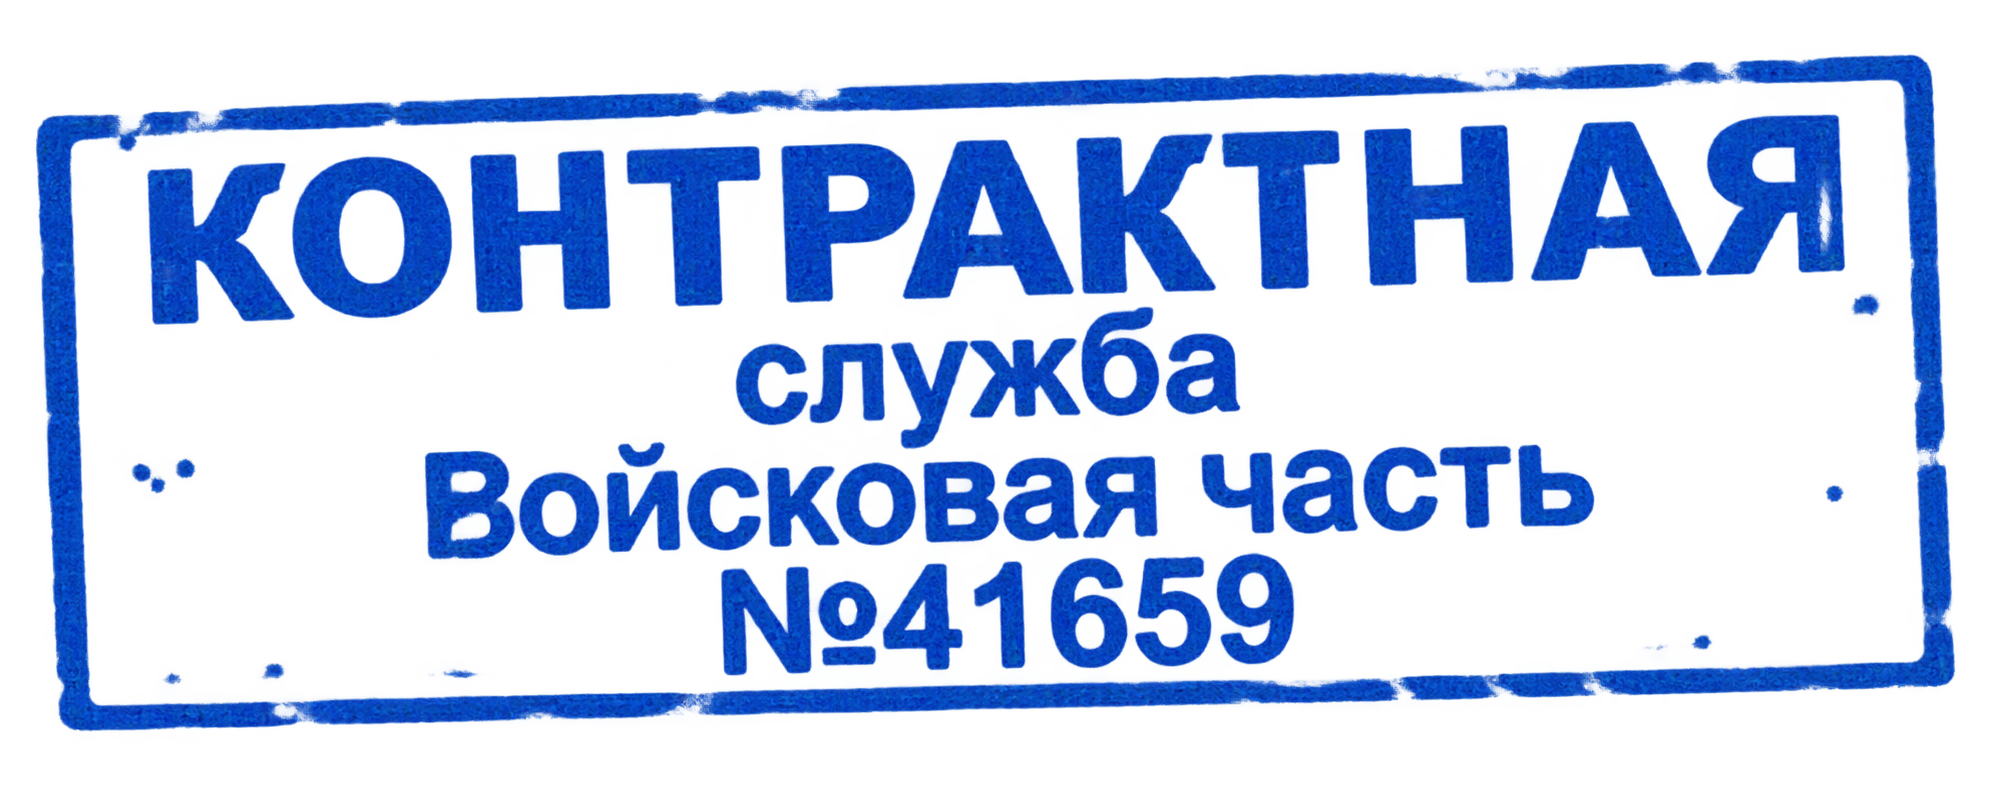
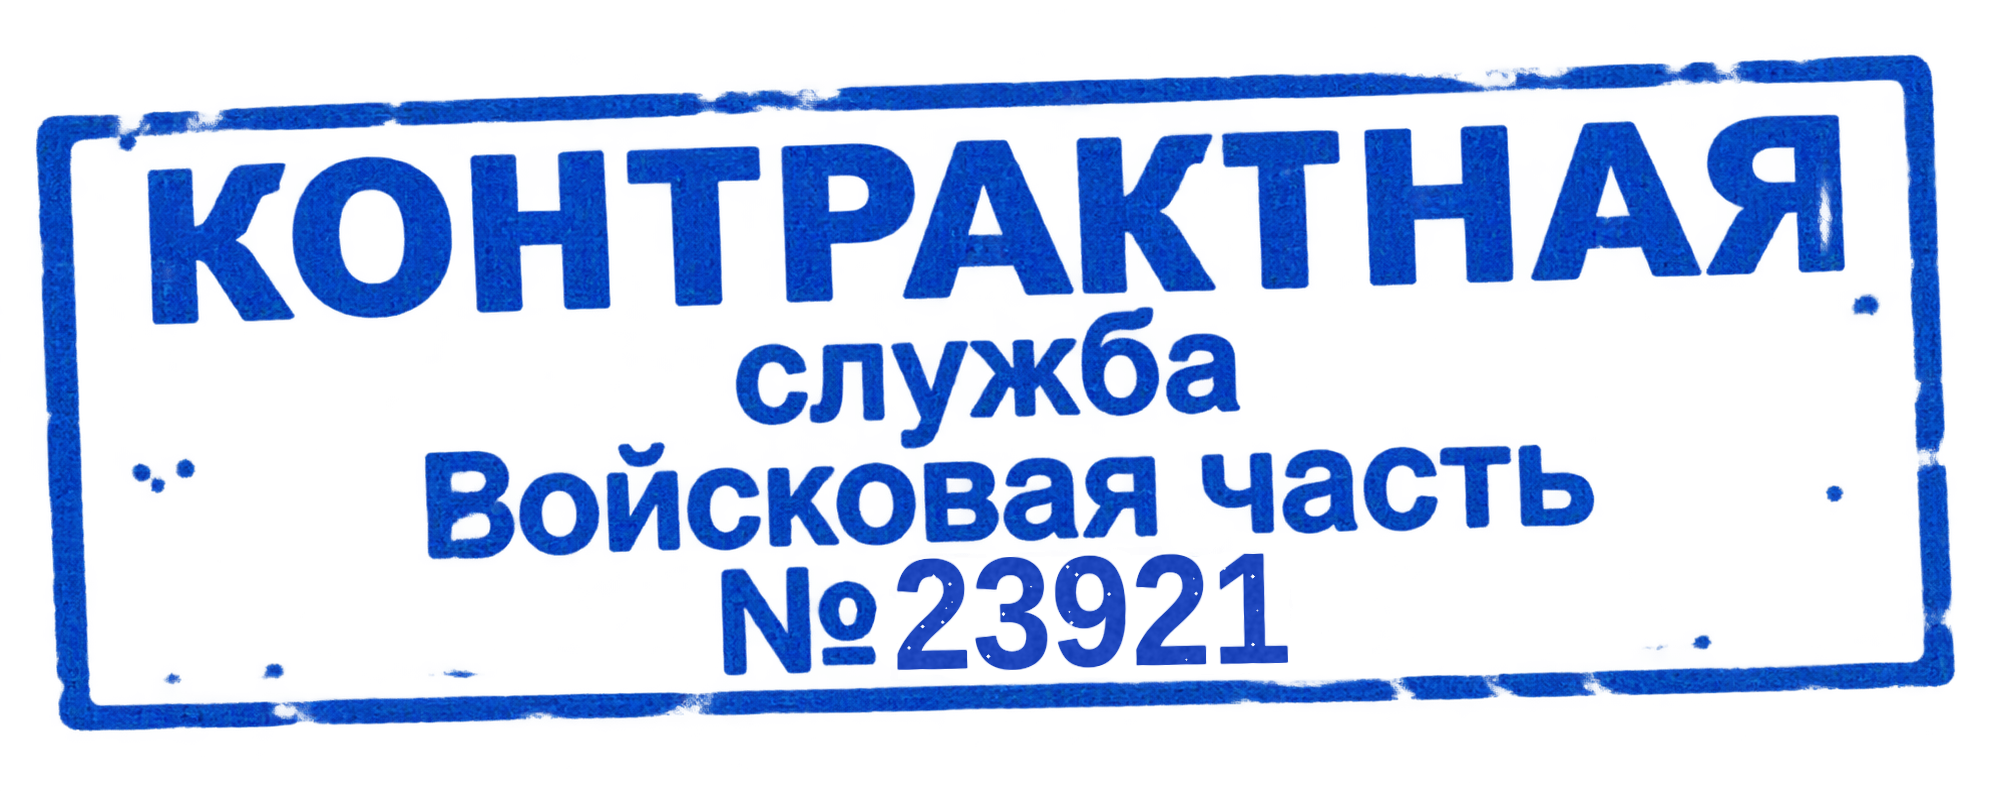
Add files via upload

Changed region(s): [[0.4364, 0.6979, 0.6546, 0.8496]]

diff --git a/js/create.js b/js/create.js
@@ -6,27 +6,38 @@
 const VU_CONFIG = {
     canvasWidth: 1215,
     canvasHeight: 892,
-    rankBackgrounds: {
-        'Гвардии рядовой': 'backgrounds/ryadovoy.png',
-        'Гвардии ефрейтор': 'backgrounds/efreytor.png',
-        'Гвардии мл. сержант': 'backgrounds/mladshiy_serzhant.png',
-        'Гвардии сержант': 'backgrounds/serzhant.png',
-        'Гвардии ст. сержант': 'backgrounds/starshiy_serzhant.png',
-        'Гвардии старшина': 'backgrounds/starshina.png',
-        'Гвардии прапорщик': 'backgrounds/praporshchik.png',
-        'Гвардии ст. прапорщик': 'backgrounds/starshiy_praporshchik.png',
-        'Гвардии лейтенант': 'backgrounds/leytenant.png',
-        'Гвардии ст. лейтенант': 'backgrounds/starshiy_leytenant.png',
-        'Гвардии капитан': 'backgrounds/kapitan.png',
-        'Гвардии майор': 'backgrounds/mayor.png'
+    background: 'backgrounds/vu_base.png', // Единый фон для всех
+    rankPhotos: {
+        'Гвардии рядовой': 'backgrounds/ranks/ryadovoy.png',
+        'Гвардии ефрейтор': 'backgrounds/ranks/efreytor.png',
+        'Гвардии мл. сержант': 'backgrounds/ranks/mladshiy_serzhant.png',
+        'Гвардии сержант': 'backgrounds/ranks/serzhant.png',
+        'Гвардии ст. сержант': 'backgrounds/ranks/starshiy_serzhant.png',
+        'Гвардии старшина': 'backgrounds/ranks/starshina.png',
+        'Гвардии прапорщик': 'backgrounds/ranks/praporshchik.png',
+        'Гвардии ст. прапорщик': 'backgrounds/ranks/starshiy_praporshchik.png',
+        'Гвардии лейтенант': 'backgrounds/ranks/leytenant.png',
+        'Гвардии ст. лейтенант': 'backgrounds/ranks/starshiy_leytenant.png',
+        'Гвардии капитан': 'backgrounds/ranks/kapitan.png',
+        'Гвардии майор': 'backgrounds/ranks/mayor.png'
     },
     serviceStamps: {
         'srochnaya': 'backgrounds/stamp_srochnaya.png',
         'kontraktnaya': 'backgrounds/stamp_kontraktnaya.png'
     },
-    stampRect: { x: 371, y: 616, w: 216, h: 78 },
-    stampAngleMin: -7,
-    stampAngleMax: 10
+    vaiStamp: 'backgrounds/vai_stamp.png',
+    chiefSignature: 'backgrounds/chief_signature.png',
+    // Координаты и размеры элементов
+    photoRect: { x: 53, y: 381, w: 235, h: 313 },
+    stampRect: { x: 221, y: 605, w: 135, h: 135 },
+    signatureRect: { x: 200, y: 765, w: 212, h: 74 },
+    serviceStampRect: { x: 371, y: 616, w: 216, h: 78 },
+    // Углы поворота печати ВАИ
+    stampAngleMin: -40,
+    stampAngleMax: 40,
+    // Углы поворота печати службы (как было в оригинале)
+    serviceStampAngleMin: -7,
+    serviceStampAngleMax: 10
 };
 
 function fitText(ctx, text, x, y, maxWidth, initialSize, fontFamily, fontWeight, color, align = 'left', fontStyle = 'normal') {
@@ -47,7 +58,8 @@ function fitText(ctx, text, x, y, maxWidth, initialSize, fontFamily, fontWeight,
     ctx.fillText(text, x, y);
 }
 
-function getStampAngle(seed) {
+// Универсальная функция получения угла по сиду + диапазону
+function getStampAngle(seed, minDeg, maxDeg) {
     const str = String(seed || '');
     let h = 0;
     for (let i = 0; i < str.length; i++) {
@@ -55,9 +67,23 @@ function getStampAngle(seed) {
         h |= 0;
     }
     const t = Math.abs(Math.sin(h) * 10000) % 1;
-    const min = VU_CONFIG.stampAngleMin;
-    const max = VU_CONFIG.stampAngleMax;
-    return (min + t * (max - min)) * Math.PI / 180;
+    return (minDeg + t * (maxDeg - minDeg)) * Math.PI / 180;
+}
+
+// ================================================================
+// Отрисовка повёрнутой картинки с максимальным качеством
+// ================================================================
+function drawRotatedImage(ctx, img, cx, cy, w, h, angleRad, alpha = 1) {
+    ctx.save();
+    ctx.imageSmoothingEnabled = true;
+    ctx.imageSmoothingQuality = 'high';
+
+    ctx.translate(cx, cy);
+    ctx.rotate(angleRad);
+    if (alpha !== 1) ctx.globalAlpha = alpha;
+
+    ctx.drawImage(img, -w / 2, -h / 2, w, h);
+    ctx.restore();
 }
 
 async function generateVU() {
@@ -65,6 +91,10 @@ async function generateVU() {
     if (!canvas) return;
 
     const ctx = canvas.getContext('2d');
+
+    // ★ Максимальное сглаживание для всего канваса
+    ctx.imageSmoothingEnabled = true;
+    ctx.imageSmoothingQuality = 'high';
 
     const vuNumber = document.getElementById('createVUNumber').value.trim();
     const rank = document.getElementById('createRank').value;
@@ -81,42 +111,107 @@ async function generateVU() {
 
     ctx.clearRect(0, 0, canvas.width, canvas.height);
 
-    if (rank && VU_CONFIG.rankBackgrounds[rank]) {
-        try {
-            const bgImage = await loadImage(VU_CONFIG.rankBackgrounds[rank]);
-            ctx.drawImage(bgImage, 0, 0, canvas.width, canvas.height);
-        } catch (error) {
-            console.warn('Ошибка загрузки фона:', error);
-            ctx.fillStyle = '#2a2a2a';
-            ctx.fillRect(0, 0, canvas.width, canvas.height);
-            ctx.fillStyle = '#666';
-            ctx.font = '24px Arial';
-            ctx.textAlign = 'center';
-            ctx.fillText('Ошибка загрузки фона', 607, 446);
-        }
-    } else {
+    // 1. Единый задний фон
+    try {
+        const bgImage = await loadImage(VU_CONFIG.background);
+        ctx.drawImage(bgImage, 0, 0, canvas.width, canvas.height);
+    } catch (error) {
+        console.warn('Ошибка загрузки фона:', error);
         ctx.fillStyle = '#2a2a2a';
         ctx.fillRect(0, 0, canvas.width, canvas.height);
         ctx.fillStyle = '#666';
         ctx.font = '24px Arial';
         ctx.textAlign = 'center';
-        ctx.fillText('Выберите звание', 607, 446);
+        ctx.fillText('Ошибка загрузки фона', 607, 446);
     }
 
-    if (rank) {
-        const fontFamily = 'Segoe Script';
-        const color = '#000f55';
+    const fontFamily = 'Segoe Script';
+    const color = '#000f55';
 
+    // 2. Надпись "войсковая часть 23921" — верх (120; 285), размер 30 → низ = 315
+    fitText(ctx, 'войсковая часть 23921', 120, 315, 400, 30, fontFamily, 'normal', color, 'left', 'italic');
+
+    // 3. Надпись "66" — верх (439; 374), размер 22 → низ = 396
+    fitText(ctx, '66', 439, 396, 100, 22, fontFamily, 'normal', color, 'left', 'italic');
+
+    // 4. Фотография по званию — размер 235x313, координаты (53; 381)
+    if (rank && VU_CONFIG.rankPhotos[rank]) {
+        try {
+            const photoImg = await loadImage(VU_CONFIG.rankPhotos[rank]);
+            ctx.imageSmoothingEnabled = true;
+            ctx.imageSmoothingQuality = 'high';
+            ctx.drawImage(photoImg, VU_CONFIG.photoRect.x, VU_CONFIG.photoRect.y, VU_CONFIG.photoRect.w, VU_CONFIG.photoRect.h);
+        } catch (error) {
+            console.warn('Ошибка загрузки фото звания:', error);
+        }
+    }
+
+    
+
+    // 6. Надпись "Начальник 66-ой ВАИ" — верх (137; 720), размер 30 → низ = 750
+    fitText(ctx, 'Начальник 66-ой ВАИ', 137, 750, 400, 30, fontFamily, 'normal', color, 'left', 'italic');
+
+    // 7. Надпись "капитан" — верх (51; 795), размер 30 → низ = 825
+    fitText(ctx, 'капитан', 51, 817, 300, 30, fontFamily, 'normal', color, 'left', 'italic');
+
+    // 8. Надпись "М.А. Котиков" — верх (378; 787), размер 30 → низ = 817
+    fitText(ctx, 'М. Котиков', 368, 817, 300, 30, fontFamily, 'normal', color, 'left', 'italic');
+
+    // 9. Подпись начальника — размер 212x74, координаты (200; 765)
+    try {
+        const sigImg = await loadImage(VU_CONFIG.chiefSignature);
+        ctx.imageSmoothingEnabled = true;
+        ctx.imageSmoothingQuality = 'high';
+        ctx.drawImage(sigImg, VU_CONFIG.signatureRect.x, VU_CONFIG.signatureRect.y, VU_CONFIG.signatureRect.w, VU_CONFIG.signatureRect.h);
+    } catch (error) {
+        console.warn('Ошибка загрузки подписи начальника:', error);
+    }
+
+    // 5. Печать ВАИ — размер 135x135, координаты (221; 605), угол от -40 до 40
+    try {
+        const stampImg = await loadImage(VU_CONFIG.vaiStamp);
+        const { x, y, w, h } = VU_CONFIG.stampRect;
+        const cx = x + w / 2;
+        const cy = y + h / 2;
+        const seed = (vuNumber || '') + '|' + (lastName || '');
+        const angle = getStampAngle(seed, VU_CONFIG.stampAngleMin, VU_CONFIG.stampAngleMax);
+
+        drawRotatedImage(ctx, stampImg, cx, cy, w, h, angle, 0.9);
+    } catch (error) {
+        console.warn('Ошибка загрузки печати ВАИ:', error);
+    }
+
+    // 10. Печать срочной/контрактной службы — размер 216x78, координаты (371; 616), угол от -7 до 10
+    if (serviceType && VU_CONFIG.serviceStamps[serviceType]) {
+        try {
+            const stampImg = await loadImage(VU_CONFIG.serviceStamps[serviceType]);
+            const { x, y, w, h } = VU_CONFIG.serviceStampRect;
+            const cx = x + w / 2;
+            const cy = y + h / 2;
+            const seed = (vuNumber || '') + '|' + (lastName || '') + '|service';
+            const angle = getStampAngle(seed, VU_CONFIG.serviceStampAngleMin, VU_CONFIG.serviceStampAngleMax);
+
+            drawRotatedImage(ctx, stampImg, cx, cy, w, h, angle, 0.9);
+        } catch (error) {
+            console.warn('Ошибка загрузки печати службы:', error);
+        }
+    }
+
+    // ===== ОСТАЛЬНЫЕ ЭЛЕМЕНТЫ =====
+    if (rank) {
+        // Номер ВУ
         if (vuNumber) fitText(ctx, vuNumber, 389, 106, 123, 25, fontFamily, 'normal', color, 'left', 'italic');
 
-        if (rank) {
-            const rankLower = rank.charAt(0).toLowerCase() + rank.slice(1);
-            fitText(ctx, rankLower, 218, 149, 341, 30, fontFamily, 'normal', color, 'left', 'italic');
-        }
+        // Звание (первая буква строчная)
+        const rankLower = rank.charAt(0).toLowerCase() + rank.slice(1);
+        fitText(ctx, rankLower, 218, 149, 341, 30, fontFamily, 'normal', color, 'left', 'italic');
+
+        // ФИО
         if (lastName) fitText(ctx, lastName, 148, 191, 411, 30, fontFamily, 'normal', color, 'left', 'italic');
         if (firstName) fitText(ctx, firstName, 102, 233, 457, 30, fontFamily, 'normal', color, 'left', 'italic');
         if (middleName) fitText(ctx, middleName, 149, 275, 410, 30, fontFamily, 'normal', color, 'left', 'italic');
 
+        // Дата выдачи
         if (issueDate) {
             const dateStr = formatDateForDisplay(issueDate);
             const dateParts = dateStr.split('.');
@@ -128,6 +223,7 @@ async function generateVU() {
             }
         }
 
+        // Дата окончания
         if (expiryDate) {
             const dateStr = formatDateForDisplay(expiryDate);
             const dateParts = dateStr.split('.');
@@ -137,26 +233,6 @@ async function generateVU() {
                 const year = dateParts[2].slice(-2);
                 fitText(ctx, year, 529, 591, 33, 23, fontFamily, 'normal', color, 'left', 'italic');
             }
-        }
-    }
-
-    if (serviceType && VU_CONFIG.serviceStamps[serviceType]) {
-        try {
-            const stampImg = await loadImage(VU_CONFIG.serviceStamps[serviceType]);
-            const { x, y, w, h } = VU_CONFIG.stampRect;
-            const cx = x + w / 2;
-            const cy = y + h / 2;
-            const seed = (vuNumber || '') + '|' + (lastName || '');
-            const angle = getStampAngle(seed);
-
-            ctx.save();
-            ctx.translate(cx, cy);
-            ctx.rotate(angle);
-            ctx.globalAlpha = 0.9;
-            ctx.drawImage(stampImg, -w / 2, -h / 2, w, h);
-            ctx.restore();
-        } catch (error) {
-            console.warn('Ошибка загрузки штампа:', error);
         }
     }
 }
@@ -305,7 +381,6 @@ async function confirmSaveVU() {
             return;
         }
 
-        // ЛОГ с ЧЕЛОВЕЧЕСКОЙ фразой — 5-м аргументом СТРОКА
         await logCreate('vu_create', 'military_ids', data.id, data,
             `Создал ВУ ${preview.vuNumber} для ${preview.fio} (${preview.rank})`);
 
@@ -362,10 +437,11 @@ function compressCanvasToJpeg(sourceCanvas, maxWidth = 1600, quality = 0.85) {
         off.height = dstH;
         const ctx = off.getContext('2d');
 
-        ctx.fillStyle = '#ffffff';
-        ctx.fillRect(0, 0, dstW, dstH);
         ctx.imageSmoothingEnabled = true;
         ctx.imageSmoothingQuality = 'high';
+
+        ctx.fillStyle = '#ffffff';
+        ctx.fillRect(0, 0, dstW, dstH);
         ctx.drawImage(sourceCanvas, 0, 0, srcW, srcH, 0, 0, dstW, dstH);
 
         off.toBlob(
